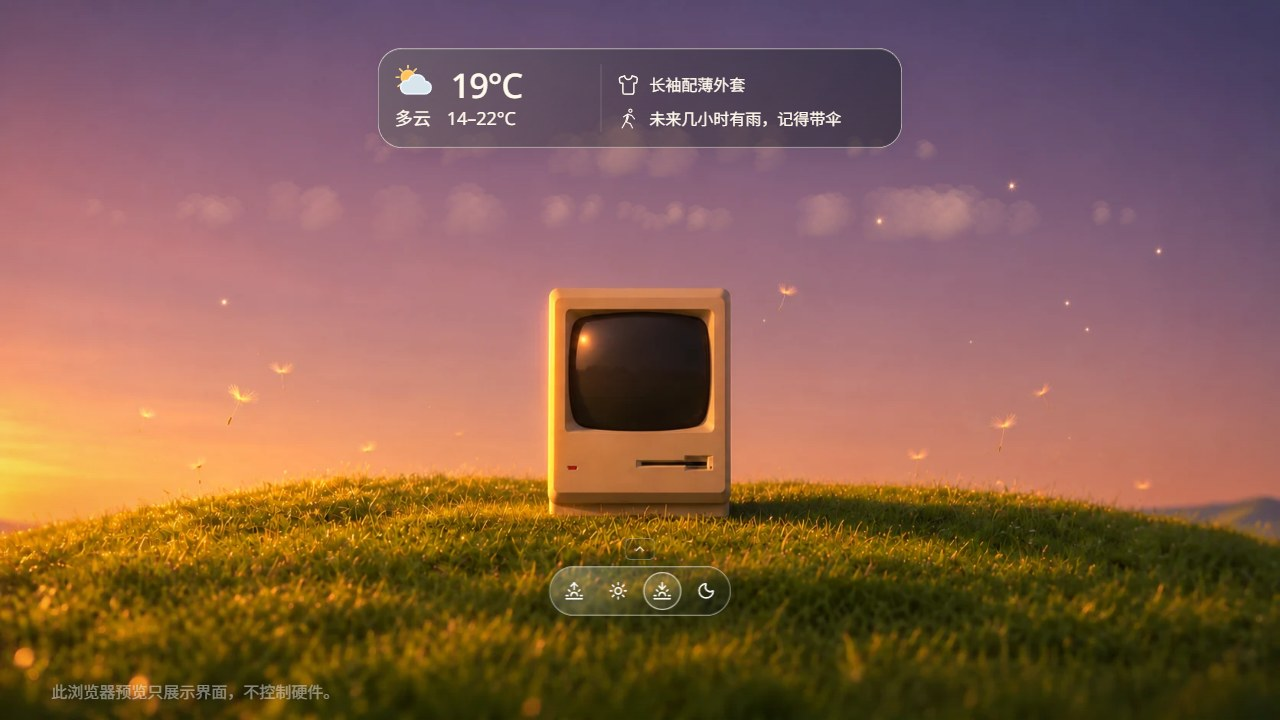
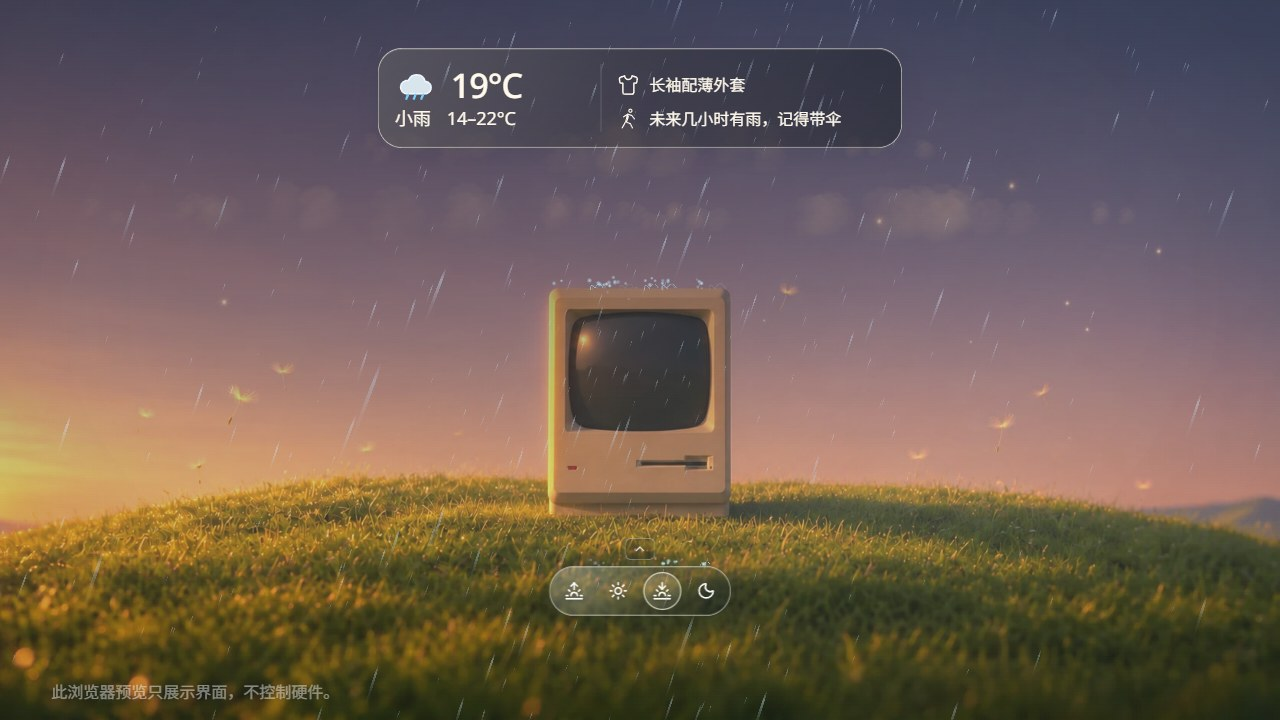
Localize the README and vary its scene screenshots

diff --git a/README.en.md b/README.en.md
@@ -1,0 +1,57 @@
+# Monitors Focus
+
+[简体中文](README.md) · English
+
+Adjust your displays on Windows. Press `Win + W` to open the panel, or use the mouse wheel at the edge of your screen without opening it.
+
+**Lightweight tray app: about 19 MB of memory.** This is from one Task Manager reading; actual usage varies. Closing the panel frees its interface while edge scrolling, scheduled transitions, and Focus keep working.
+
+The screenshots show the app with sample display and weather data.
+
+<h2 align="center">Adjust volume and brightness with the mouse wheel</h2>
+
+Enable edge scrolling under **General**. Scroll at the **top edge** to change that screen’s brightness, or at the **bottom edge** to change system volume. Hold **Alt** (the default modifier) to adjust color temperature at the top edge or the active app’s volume at the bottom, if that app supports separate volume control.
+
+![General settings: appearance and weather on the left, shortcuts and edge scrolling on the right](docs/media/en/edge-controls.jpg)
+
+<h2 align="center">Adjust brightness and color temperature for each display</h2>
+
+Under **Now**, adjust your laptop and external display separately. To make both brighter or dimmer together, turn on **Brightness linking** and move either brightness slider.
+
+![Now tab: individual brightness and color temperature sliders for two displays](docs/media/en/display-controls.jpg)
+
+<h2 align="center">Save and switch between display presets</h2>
+
+Use a brighter setup for daytime work and a warmer one for nighttime reading. Edit each display’s values in **Scenes**, or save your current setup as a new scene. From the home screen, click an icon or use `←` and `→` to switch.
+
+![Scenes tab: morning, midday, dusk, and night presets for two displays](docs/media/en/scenes.jpg)
+
+<h2 align="center">Schedule changes to brightness and color temperature</h2>
+
+In **Transitions**, drag a point to set when a scene starts, or schedule it around sunrise or sunset. Set a duration for brightness and color temperature to change gradually instead of all at once.
+
+![Transitions tab: daily timeline with scene points and curves for brightness and color temperature](docs/media/en/transitions.jpg)
+
+<h2 align="center">Black out a second display when you leave it</h2>
+
+In **Focus**, choose a secondary display and set a delay. A black overlay covers that screen when the pointer leaves; moving it back restores the view without changing the backlight. You can also keep the display visible while watching a full-screen video.
+
+![Focus tab: secondary display selection, delay, and full-screen exception](docs/media/en/focus.jpg)
+
+<h2 align="center">See current weather and rain on the home screen</h2>
+
+The home screen can show scenes as icons only. Press `↓` to check the current temperature and get advice before heading out. If weather effects are enabled, rain appears on the home screen when it’s raining in your selected location.
+
+![Home screen: rainy dusk scene with icon-only controls and an open weather card](docs/media/en/home-weather.jpg)
+
+<h2 align="center">Customize the stars and clouds in each scene</h2>
+
+In **General → Stars and clouds**, adjust how bright the stars are and how much they twinkle, or change the density and speed of the clouds. Each scene remembers its own settings, and these effects only change the home screen.
+
+![Stars and clouds settings: separate controls and a night scene preview](docs/media/en/sky-settings.jpg)
+
+<h2 align="center">Install and launch</h2>
+
+- Requires Windows 10/11 x64 and Microsoft Edge WebView2 Runtime. External-display brightness control requires DDC/CI support and must be enabled on the monitor. Color temperature control requires a compatible SDR display.
+- Build the current Go version from source: run `./scripts/build.ps1 -Check -Package`, then launch the generated `MonitorsFocus.Go.exe`. You can enable launch on sign-in under **General**. Older GitHub releases do not reflect the current Go version.
+- [Product guide (Chinese)](docs/PRODUCT.md) · [Build and update notes (Chinese)](docs/DEVELOPMENT.md) · [Project status (Chinese)](docs/STATUS.md) · [License](LICENSE)

diff --git a/README.md b/README.md
@@ -1,52 +1,56 @@
 # Monitors Focus
 
+简体中文 · [English](README.en.md)
+
 在 Windows 上，让每块屏幕都舒服一点。用 `Win + W` 呼出面板，也可以不打开它，直接在屏幕边缘滚动鼠标。
 
 **轻量后台：常驻进程约 19 MB。** 这是本机任务管理器的一次实测，实际占用因环境而异。关掉面板会释放界面，边缘滚轮、定时渐变和专注仍可继续工作。
 
 以下为软件界面截图，显示器和天气数据用于演示。
 
-## 屏幕边缘滚一滚，不用找设置
+<h2 align="center">通过滚轮快捷调节电脑声音和亮度</h2>
 
 在「通用」开启边缘滚轮。鼠标移到屏幕**顶部**滚动，调这块屏的亮度；移到**底部**滚动，调系统音量。按住默认的 **Alt** 再滚，顶部调屏幕冷暖，底部只调正在出声的前台应用（如果它支持单独调音量）。
 
 ![通用：左侧为外观与天气，右侧为窗口快捷键和边缘滚轮](docs/media/edge-controls.jpg)
 
-## 每块屏分别调，也可以一起调
+<h2 align="center">分别调节各屏的亮度和色温</h2>
 
 在「当下」为笔记本和外接屏分别调亮度、色温。想让屏幕一起变亮或变暗，打开「亮度联动」，再拖其中一个亮度滑条就行。
 
 ![当下：两块屏幕各有亮度和色温滑条，下方可开启亮度联动](docs/media/display-controls.jpg)
 
-## 把常用搭配存成场景
+<h2 align="center">保存并快速切换显示场景</h2>
 
 白天办公用偏亮的设置，晚上阅读换成柔和的暖色。在「场景」里为每块屏保存数值，也可以把当前搭配存成新场景。回到首页，点图标或按 `←` / `→` 就能切换。
 
 ![场景：在同一页编辑早晨、中午、傍晚和夜间的双屏设置](docs/media/scenes.jpg)
 
-## 到点自动换，不用每天手调
+<h2 align="center">按时间自动调节亮度和色温</h2>
 
 在「渐变」里拖动时间点，决定什么时候切到哪个场景，也能按日出、日落安排。设好渐变时长，亮度和色温就会慢慢过渡，不用一下子切换。
 
 ![渐变：一天中各个场景的切换时间，以及亮度和色温的过渡曲线](docs/media/transitions.jpg)
 
-## 不用副屏时，让它安静下来
+<h2 align="center">离开副屏时自动遮黑</h2>
 
-在「专注」里选好副屏和等待时间。鼠标离开后，副屏会盖上一层暗色遮罩；移回去就恢复，不改显示器背光。看全屏视频时，也可以让副屏保持亮着。
+在「专注」里选好副屏和等待时间。鼠标离开后，黑色遮罩会盖住副屏；移回去就恢复，不改变显示器背光。看全屏视频时，也可以让副屏保持亮着。
 
 ![专注：选择参与的副屏、变暗等待时间和全屏例外](docs/media/focus.jpg)
 
-## 打开，是一个安静的小家
+<h2 align="center">在首页查看天气和雨景</h2>
 
 首页的场景栏可以设成只显示一排图标。按 `↓` 看当前气温和出门建议；启用天气雨景后，只有当地正在下雨，画面才会跟着下雨。
 
-![首页：傍晚场景、图标式场景栏，以及弹出的天气卡片](docs/media/home-weather.jpg)
+![首页：傍晚雨景、图标式场景栏和天气卡片](docs/media/home-weather.jpg)
+
+<h2 align="center">按场景调整星星与云彩</h2>
 
 在「通用 → 星星与云彩」，可以分别给四个场景调星星的亮度、闪烁，或云彩的浓淡、飘动速度。这些只改变首页画面。
 
 ![星星与云彩：在夜晚预览中分别调整两类效果](docs/media/sky-settings.jpg)
 
-## 开始使用
+<h2 align="center">安装和启动</h2>
 
 - 需要 Windows 10/11 x64 和 Microsoft Edge WebView2 Runtime。外接屏的亮度调节需要显示器支持并启用 DDC/CI；色温调节适用于兼容的 SDR 屏幕。
 - 当前 Go 版从源码构建。执行 `./scripts/build.ps1 -Check -Package`，然后运行生成的 `MonitorsFocus.Go.exe`。首次打开后，可在「通用」开启登录自启。GitHub 上的历史发布包不代表当前版本。
